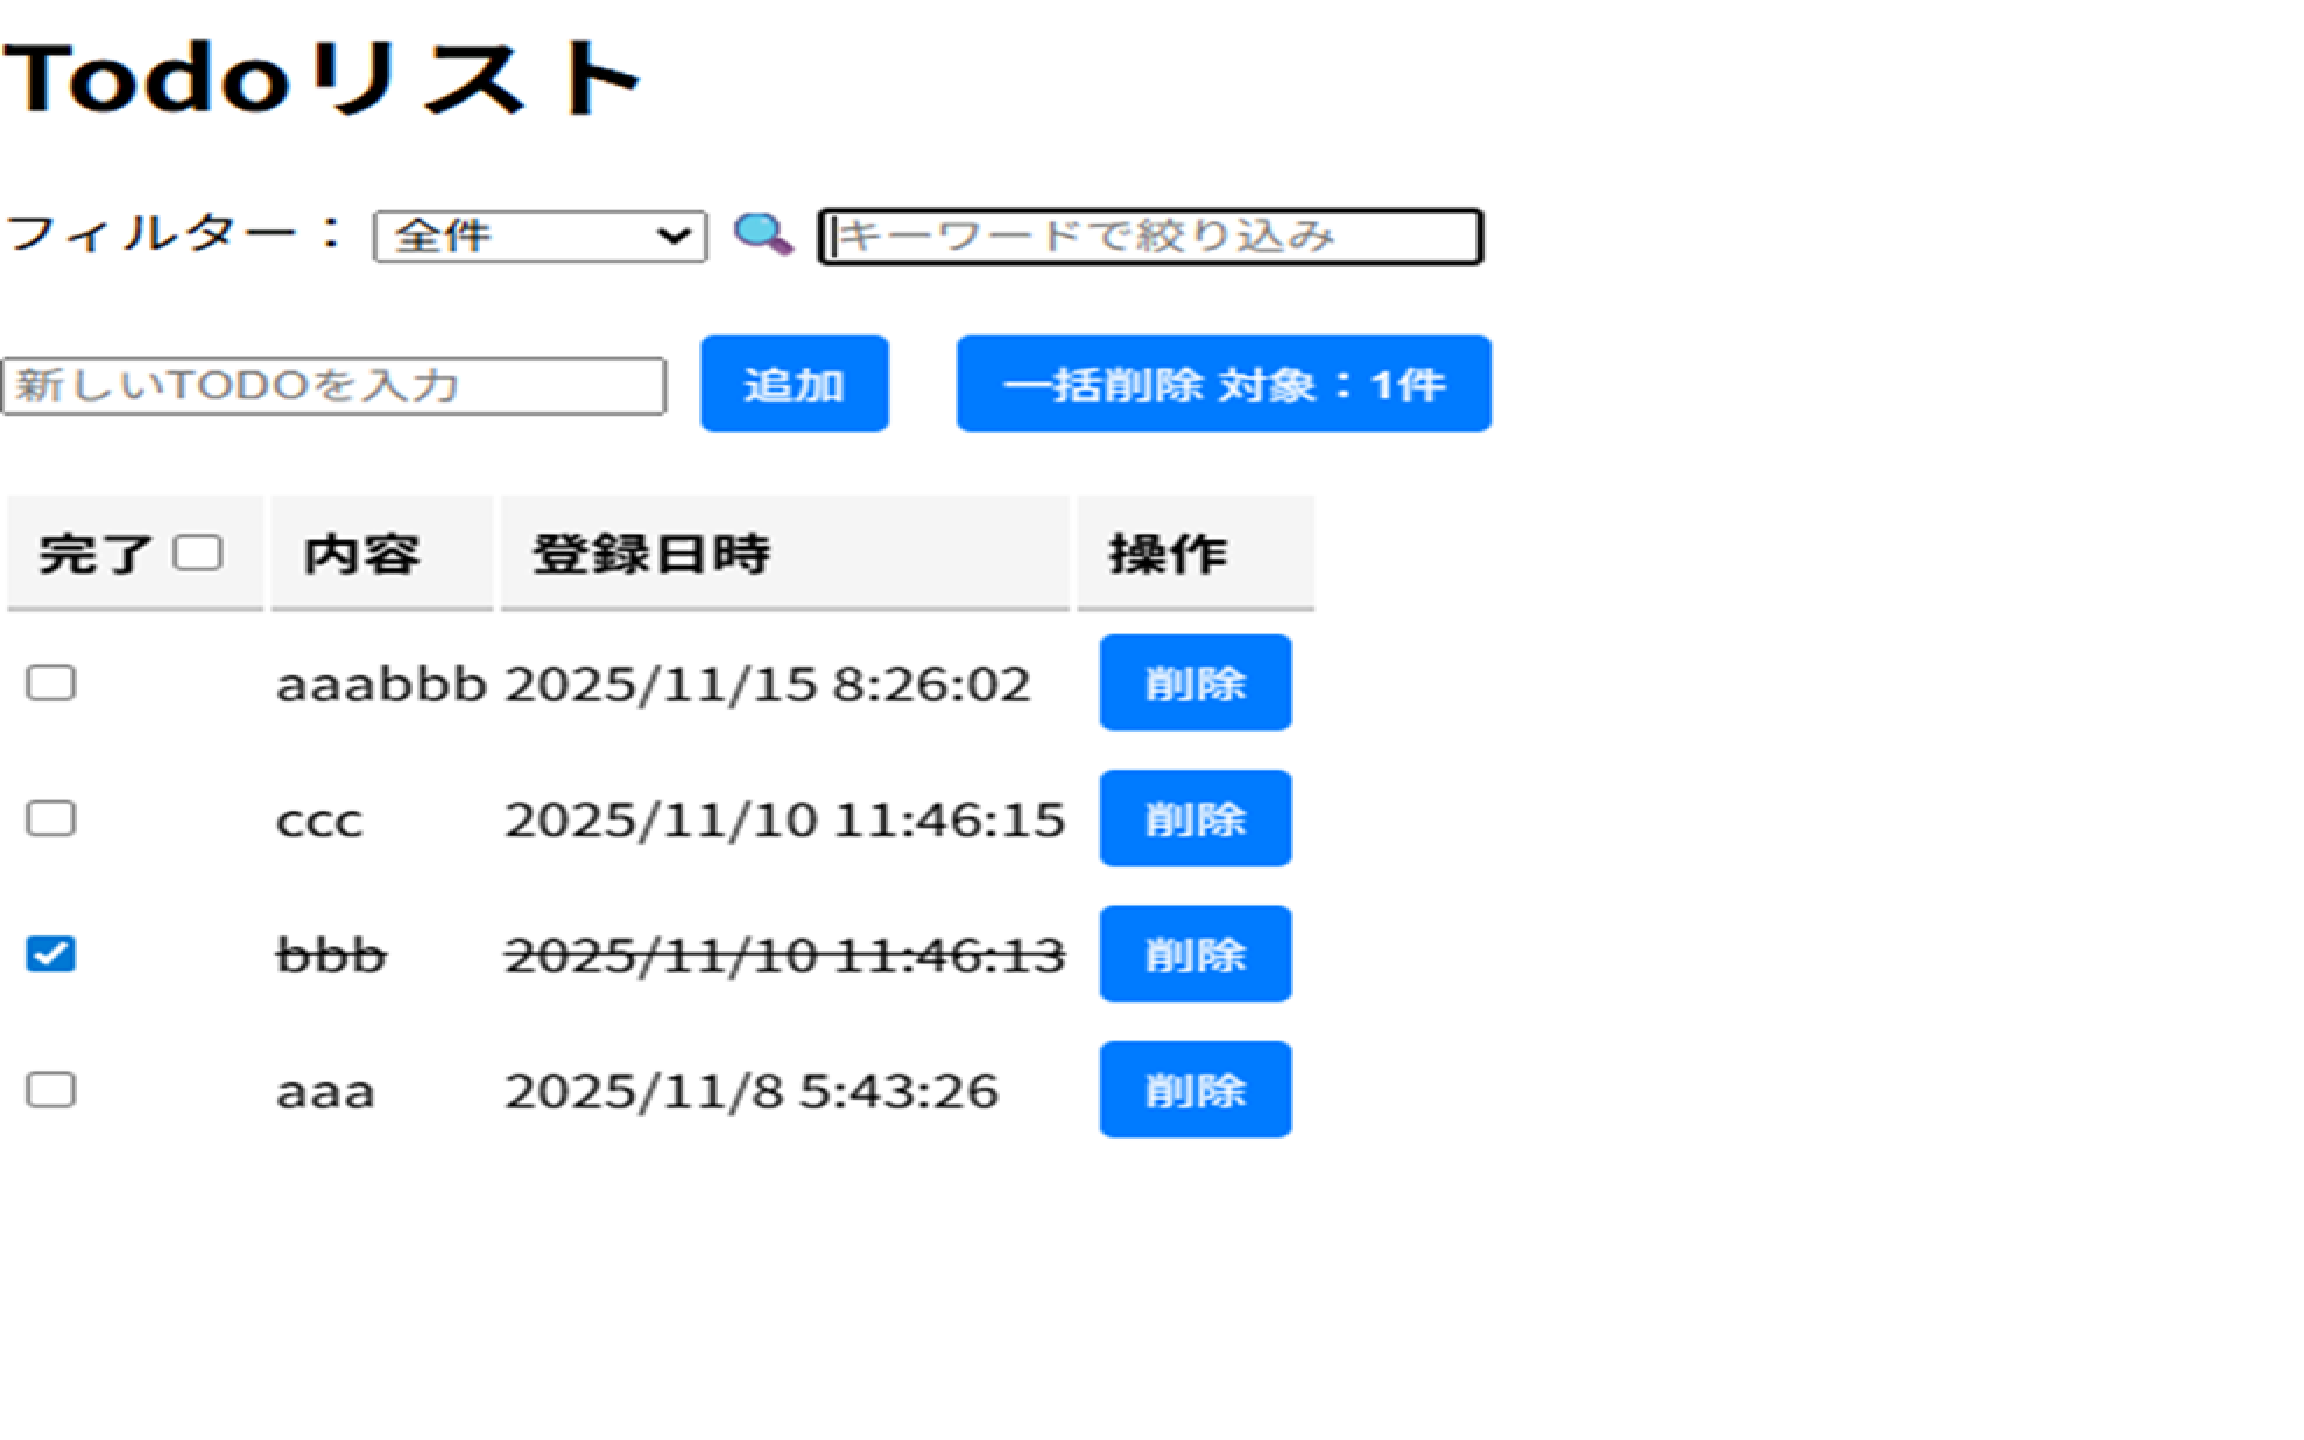
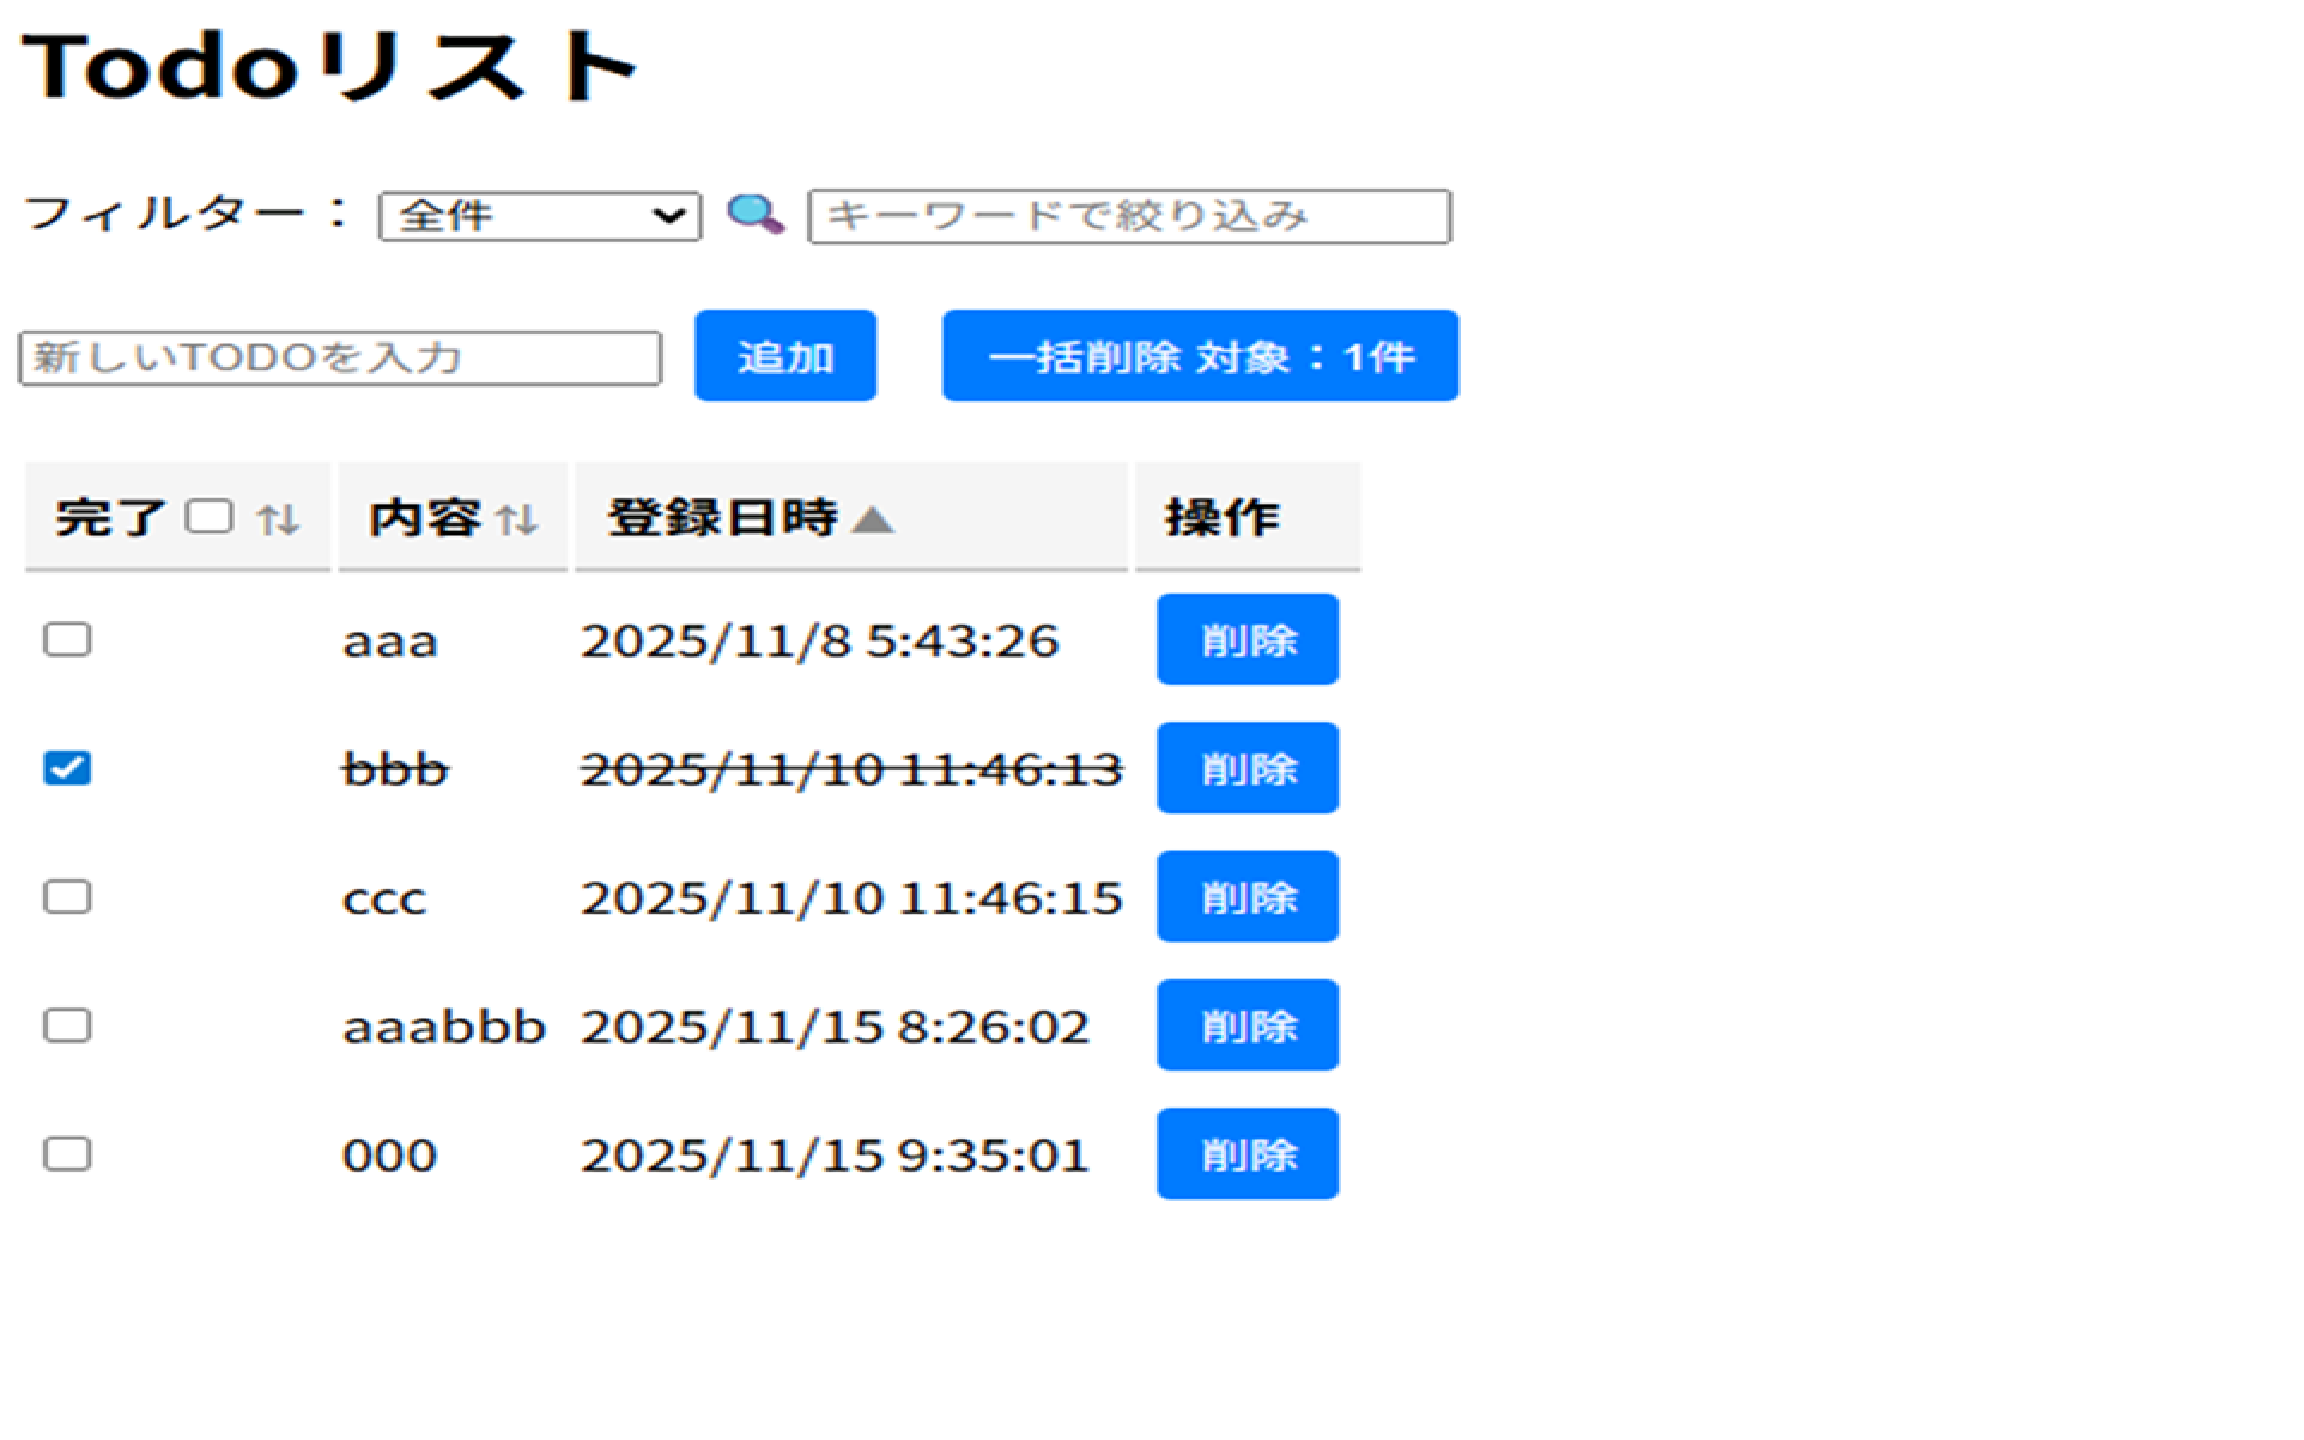
Add：ソート機能の追加

diff --git a/js/TodoList.js b/js/TodoList.js
@@ -4,17 +4,26 @@
 let isEditingId = 0;
 let filterIsDone = null; // null: 全件, 0: 完了済み, 1: 未完了
 let filterText = ""; // テキストフィルター用
+let sortKey = "id"; // ソートキー（id: 登録日時）
+let sortOrder = "asc"; // ソート順（asc: 昇順, desc: 降順）
 
 // TODOリストの取得と表示
 async function fetchTodos() {
   try {
     const res = await fetch("api/api.php", {
       method: "POST",
-      body: new URLSearchParams({ action: "list", filterIsDone, filterText }),
+      body: new URLSearchParams({
+        action: "list",
+        filterIsDone,
+        filterText,
+        sortKey,
+        sortOrder,
+      }),
     });
     const todos = await res.json();
     updateHeaderCheckbox(todos); // ヘッダーチェックボックスの状態更新
     updateDoneCount(todos); // 一括削除ボタンの完了済み件数の更新
+    updateSortIcons(); // ソートアイコンの更新
     renderTodos(todos); // TODOリストの描画
   } catch (err) {
     console.error("取得エラー:", err);
@@ -203,5 +212,40 @@ document.getElementById("textFilter").addEventListener("input", (e) => {
   isEditingId = 0;
   fetchTodos();
 });
+
+// ソートヘッダークリック時の処理
+document
+  .getElementById("sort-isdone")
+  .addEventListener("click", () => toggleSort("isdone"));
+document
+  .getElementById("sort-text")
+  .addEventListener("click", () => toggleSort("text"));
+document
+  .getElementById("sort-id")
+  .addEventListener("click", () => toggleSort("id"));
+// ソート切替
+function toggleSort(key) {
+  if (sortKey === key) {
+    sortOrder = sortOrder === "asc" ? "desc" : "asc";
+  } else {
+    sortKey = key;
+    sortOrder = "asc";
+  }
+  updateSortIcons(); // ソートアイコンの更新
+  fetchTodos();
+}
+
+// ソートアイコンの更新
+function updateSortIcons() {
+  const headers = document.querySelectorAll("th.sortable");
+  headers.forEach((th) => {
+    th.classList.remove("asc", "desc");
+  });
+
+  const activeTh = document.getElementById(`sort-${sortKey}`);
+  if (activeTh) {
+    activeTh.classList.add(sortOrder);
+  }
+}
 
 fetchTodos(); // TODOリストの取得と表示

diff --git a/css/style.css b/css/style.css
@@ -49,3 +49,21 @@ button {
 button:hover {
   background: #0056b3;
 }
+
+/* ソート可能な列のスタイル */
+th.sortable {
+  cursor: pointer;
+  user-select: none;
+}
+/*  */
+th.sortable::after {
+  content: " ⇅";
+  font-size: 0.8em;
+  color: #888;
+}
+th.sortable.asc::after {
+  content: " ▲";
+}
+th.sortable.desc::after {
+  content: " ▼";
+}

diff --git a/api/api.php b/api/api.php
@@ -51,6 +51,7 @@ switch ($action) {
     $sql = "SELECT * FROM todos WHERE 1";
     $params = [];
 
+    // フィルター処理
     if ($filterIsDone === "0") {
       $sql .= " AND isdone = 1";
     } elseif ($filterIsDone === "1") {
@@ -62,7 +63,18 @@ switch ($action) {
       $params[] = '%' . $filterText . '%';
     }
 
-    $sql .= " ORDER BY id DESC";
+    // ソート処理
+    $sortKey = $_POST['sortKey'] ?? 'id';
+    $sortOrder = $_POST['sortOrder'] ?? 'desc';
+
+    // 安全なカラム名と順序だけ許可
+    $allowedKeys = ['id', 'text', 'isdone'];
+    $allowedOrders = ['asc', 'desc'];
+
+    if (!in_array($sortKey, $allowedKeys)) $sortKey = 'id';
+    if (!in_array($sortOrder, $allowedOrders)) $sortOrder = 'desc';
+
+    $sql .= " ORDER BY $sortKey $sortOrder";
 
     $stmt = $db->prepare($sql);
     $stmt->execute($params);

diff --git a/TodoList.php b/TodoList.php
@@ -48,9 +48,9 @@
     <table>
         <thead>
             <tr>
-                <th>完了<input type="checkbox" id="headerCheckbox"></th>
-                <th>内容</th>
-                <th>登録日時</th>
+                <th id="sort-isdone" class="sortable">完了<input type="checkbox" id="headerCheckbox"></th>
+                <th id="sort-text" class="sortable">内容</th>
+                <th id="sort-id" class="sortable">登録日時</th>
                 <th>操作</th>
             </tr>
         </thead>
